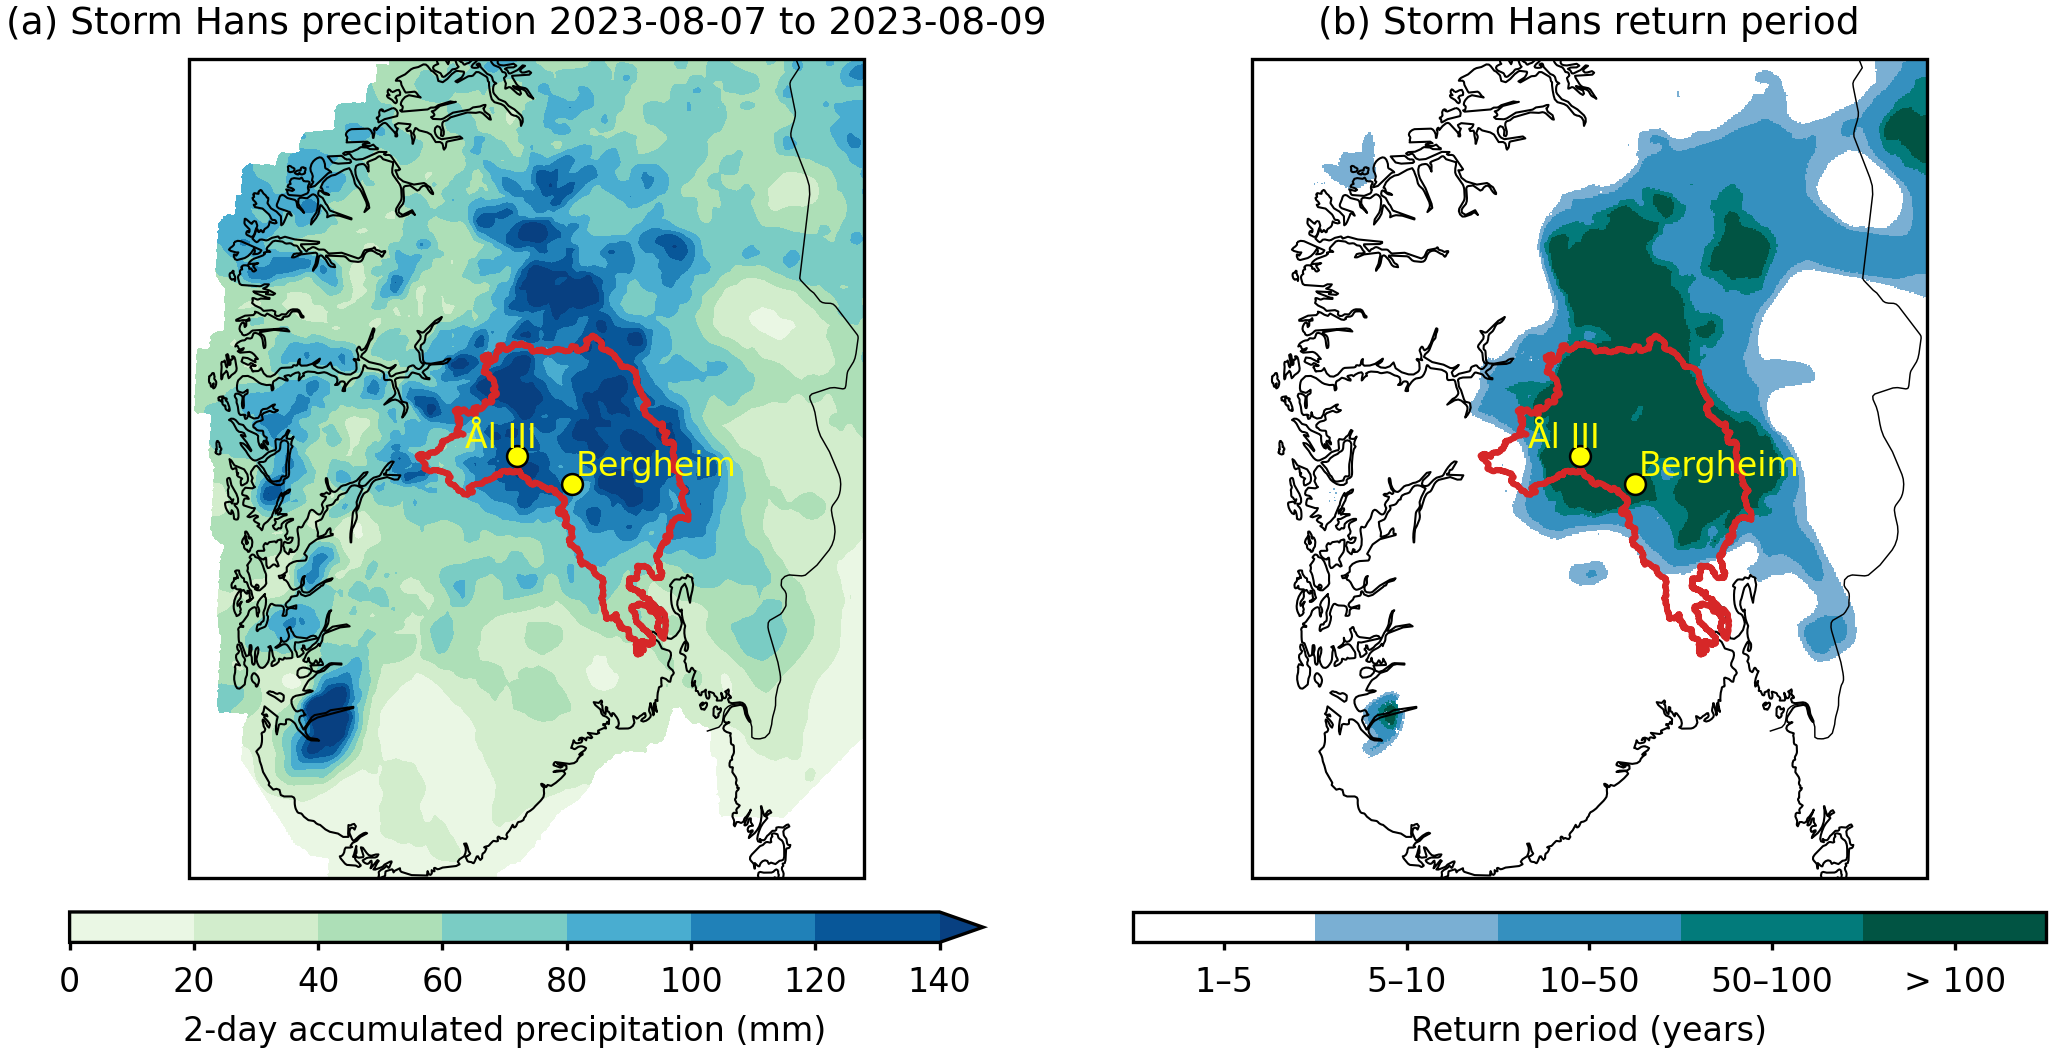
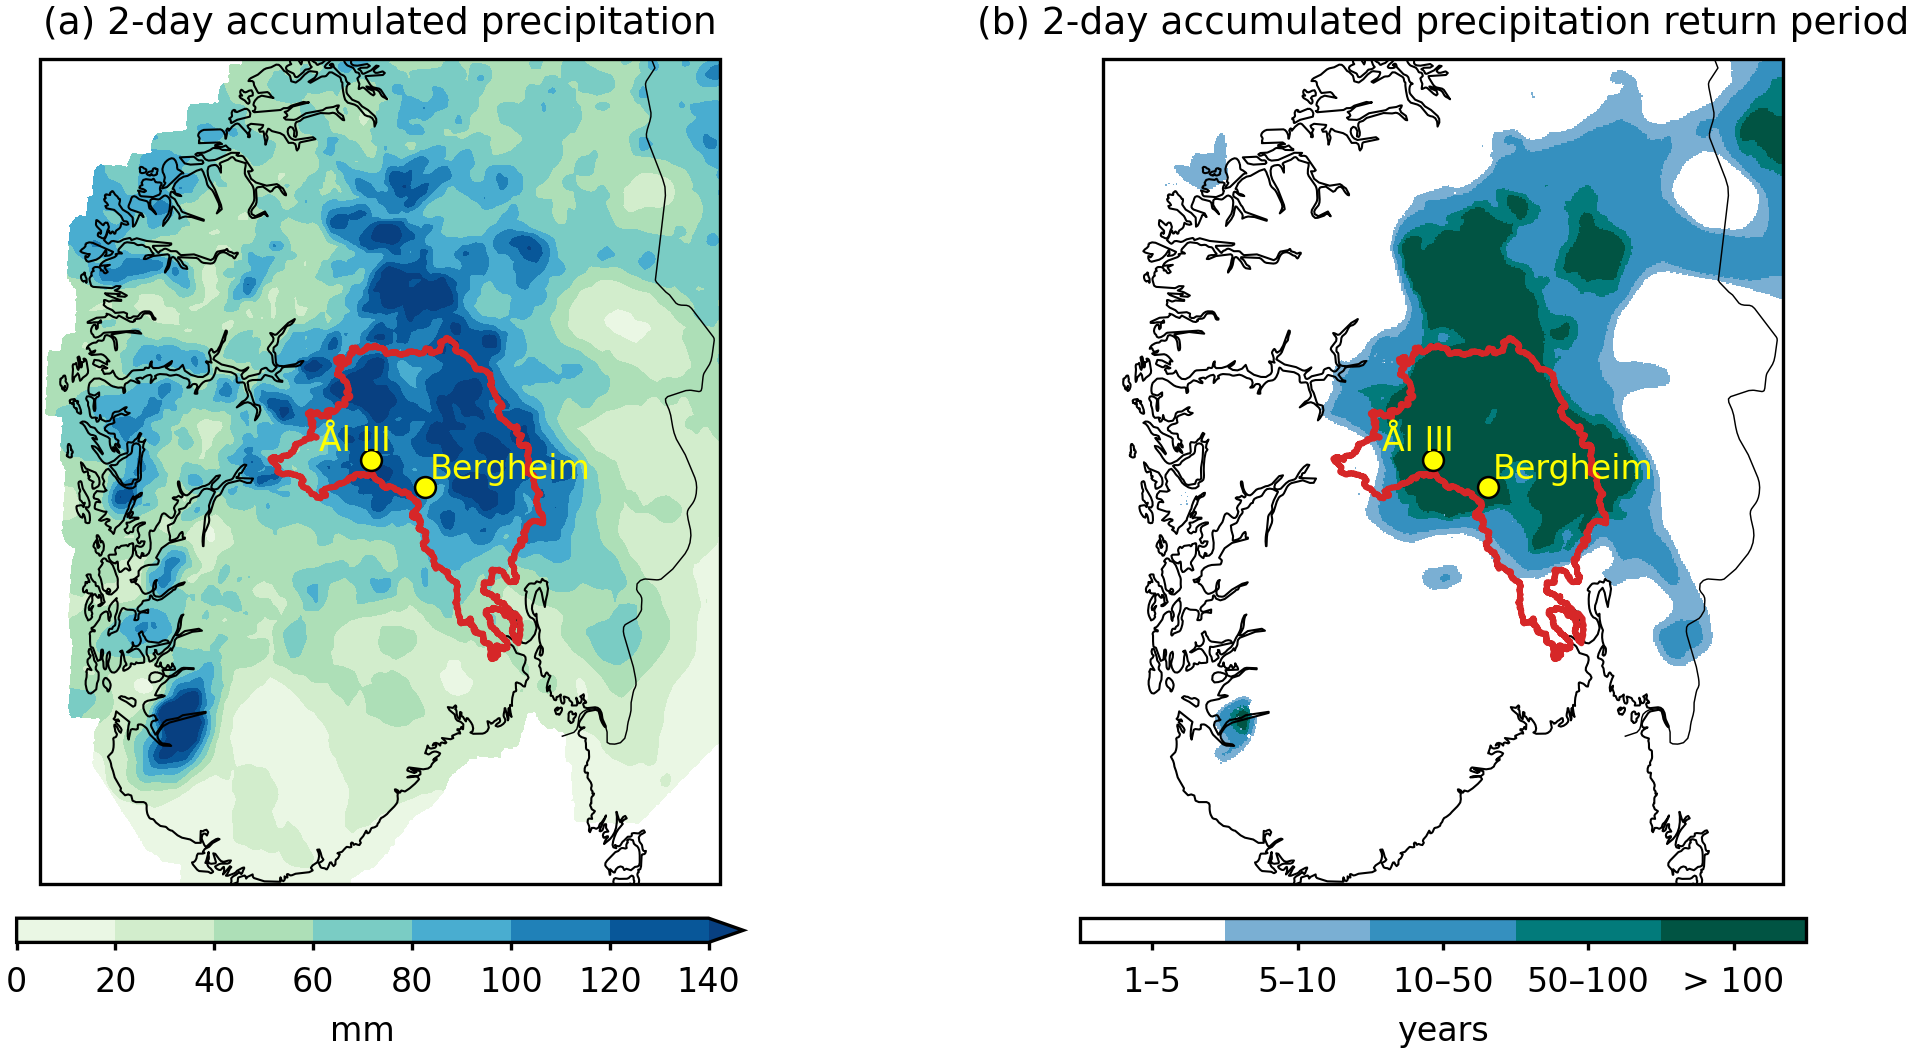
update

diff --git a/code/plot/paper_figs/temp.py b/code/plot/paper_figs/temp.py
@@ -204,14 +204,14 @@ def plot_precipitation(ax, da, lon, lat, proj_data):
         cf,
         ax=ax,
         orientation="horizontal",
-        shrink=0.88,
+        shrink=0.7,
         pad=0.035,
         aspect=30,
     )
 
     format_colorbar(
         cbar,
-        label="2-day accumulated precipitation (mm)",
+        label="mm",
         tick_labels=np.arange(0, 160, 20),
     )
 
@@ -256,7 +256,7 @@ def plot_return_period(ax, da, lon, lat, proj_data):
         mesh,
         ax=ax,
         orientation="horizontal",
-        shrink=0.88,
+        shrink=0.7,
         pad=0.035,
         aspect=30,
         ticks=np.arange(len(CATEGORY_LABELS)),
@@ -264,7 +264,7 @@ def plot_return_period(ax, da, lon, lat, proj_data):
 
     format_colorbar(
         cbar,
-        label="Return period (years)",
+        label="years",
         tick_labels=CATEGORY_LABELS,
     )
 
@@ -317,11 +317,11 @@ def plot_station_markers(ax, stations, proj_data, fontsize=8):
 
 def finalize_figure(fig, axes, savepath=None, write2file=False):
     axes[0].set_title(
-        "(a) Storm Hans precipitation 2023-08-07 to 2023-08-09",
+        "(a) 2-day accumulated precipitation",
         fontsize=title_fontsize,
     )
     axes[1].set_title(
-        "(b) Storm Hans return period",
+        "(b) 2-day accumulated precipitation return period",
         fontsize=title_fontsize,
     )
 
